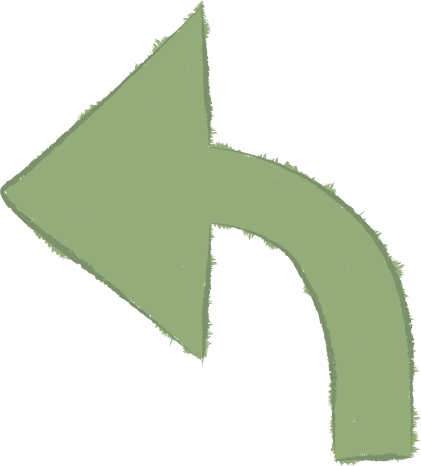
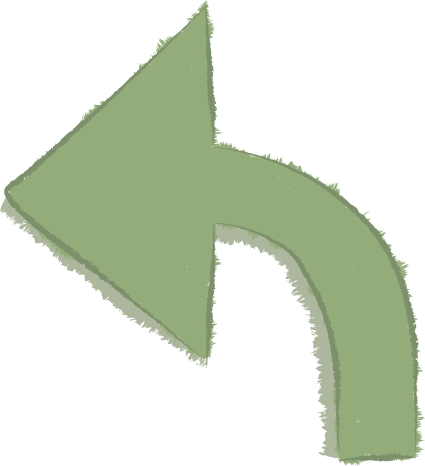
Back Button Edits

diff --git a/greenhouse/index.html b/greenhouse/index.html
@@ -15,7 +15,7 @@
 <body>
 	<main>
 		<h1 class="header fredericka-the-great-regular">Greenhouse</h1>
-		<a href="../index.html">Back</a>
+		<a href="../index.html"><img id="Back_button" src="../img/Back_button.png" alt="Back_button" class="Back_button"></img></a>
 		<img id="Main_Greenhouse" src="img/greenhouse_white_background.png" alt="Main_Greenhouse" class="main_greenhouse">
 	</main>
 </body>

diff --git a/greenhouse/css/main.css b/greenhouse/css/main.css
@@ -1,5 +1,18 @@
 .main_greenhouse{
     width: 65%;
     display: block;
-    transform: translate(300px, -50px);
+    margin-left: auto;
+    margin-right: auto;
+}
+
+/* Back Button */
+.Back_button {
+    position: fixed;
+    top: 36px;
+    left: 20px;
+    z-index: 1000;
+    cursor: pointer;
+    width: 50px;
+    height: 50px;
+    transition: all 0.3s ease;
 }
